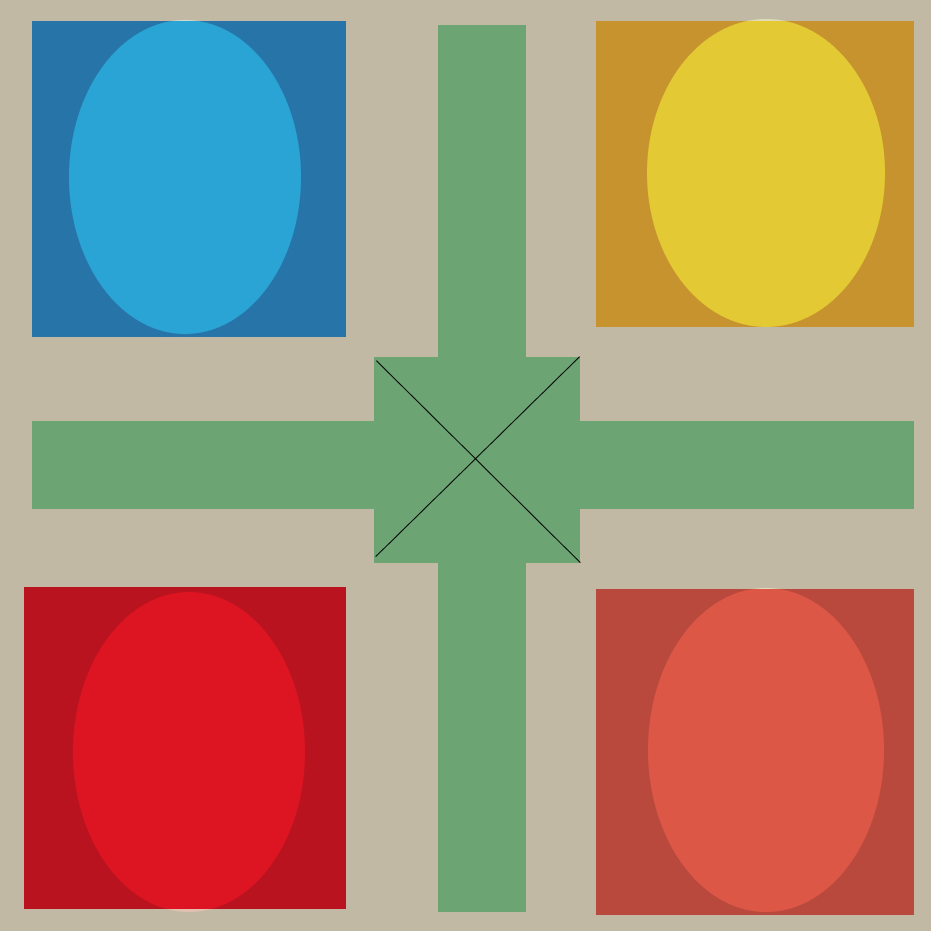
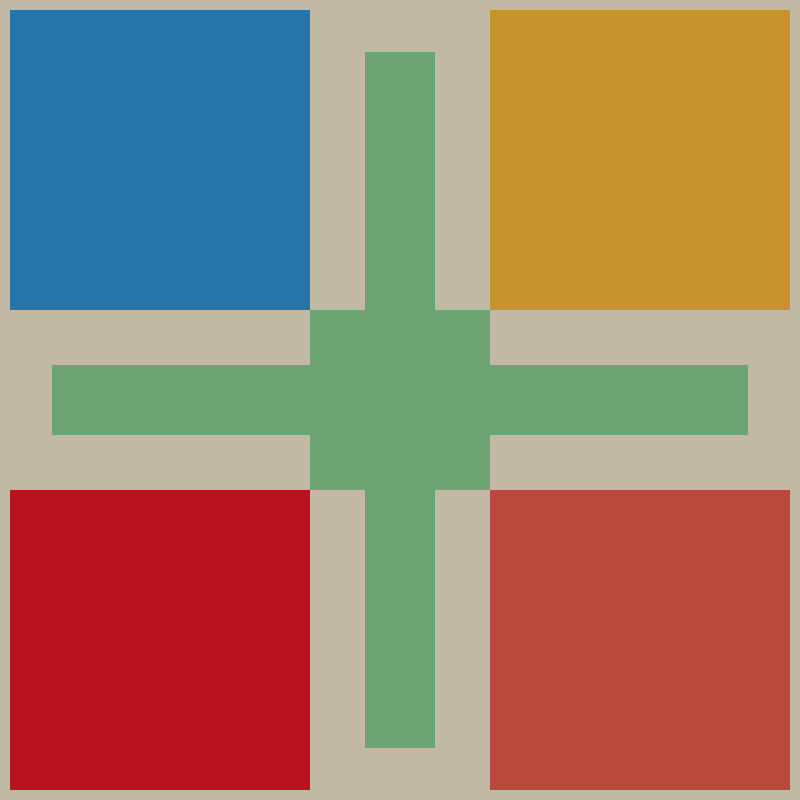
add divs and css grid

diff --git a/stylesheet.css b/stylesheet.css
@@ -4,15 +4,119 @@
 // gameboard with a track around the outside, four corner spaces and four home paths leading to a central end space. The most popular Parcheesi boards in America have 68 spaces around the edge of the board, 12 of which are darkened safe spaces. Each corner of the board contains one player's nest, or starting area. 
 //two dice in center of screen that changes based on the numbers rolled with each turn? turns the color of the player
 
-//TO MAKE GRID
-
 <style>
 
+#container {
+  display: grid;
+  grid-template-areas:
+    "bluenest bluenest bluesafety yellownest yellownest"
+    "redsafety redsafety home yellowsafety yellowsafety"
+    "rednest rednest peachsafety peachnest peachnest";
+  grid-template-columns: 1fr 1fr 1fr 1fr 1fr;
+  grid-template-rows: 1fr 1fr 1fr 1fr 1fr;
+  gap: 10px;
+}
+
+.bluenest {
+  display: grid;
+  grid-area: bluenest;
+  color: red;
+  height: 240px;
+  width: 240px;
+}
+
+.bluesafety {
+  display: grid;
+  grid-area: bluesafety;
+  color: green;
+  height: 240px;
+  width: 240px;
+
+}
+
+.yellownest {
+  display: grid;
+  grid-area: yellownest;
+  color: yellow;
+  height: 240px;
+  width: 240px;
+}
+
+.redsafety {
+  display: grid;
+  grid-area: bluenest;
+  color: red;
+  height: 240px;
+  width: 240px;
+}
+
+.home {
+  display: grid;
+  grid-area: bluesafety;
+  color: green;
+  height: 240px;
+  width: 240px;
+
+}
+
+.yellowsafety {
+  display: grid;
+  grid-area: yellownest;
+  color: yellow;
+  height: 240px;
+  width: 240px;
+}
+
+.rednest {
+  display: grid;
+  grid-area: bluenest;
+  color: red;
+  height: 240px;
+  width: 240px;
+}
+
+.peachsafety {
+  display: grid;
+  grid-area: bluesafety;
+  color: green;
+  height: 240px;
+  width: 240px;
+
+}
+
+.peachnest {
+  display: grid;
+  grid-area: yellownest;
+  color: yellow;
+  height: 240px;
+  width: 240px;
+}
+/* #board {
+  display: flex;
+  justify-items: center;
+  width: 95%;
+} */
+
+.heroimage {
+  display: flexbox;
+  background-image: url("images/board1.png");
+  background-color: #f1ede2; 
+  height: 1200px;
+  width: 1200px;
+  background-position: center;
+  background-repeat: no-repeat;
+  background-size: cover;
+}
+
+.item {
+  display: flex;
+  color: red;
+}
 
 
+body {
+  background-color: #f1ede2;
 
-
-
-
+}
 
 </style>

diff --git a/index.js b/index.js
@@ -1,21 +1,4 @@
-
-  const container = document.getElementById("container");
-  let rows 
-  let columns
-
-  function makeRows(rows, cols) {
-    container.style.setProperty('--grid-rows', rows);
-    container.style.setProperty('--grid-cols', cols);
-    for (c = 0; c < (rows * cols); c++) {
-      let cell = document.createElement("div");
-      cell.innerText = (c + 1);
-      container.appendChild(cell).className = "grid-item";
-    };
-  };
-  
-  makeRows(16, 16);
-  
-  // Opening line to tell player to roll dice and the  player with the lowest roll goes first.
+// Opening line to tell player to roll dice and the  player with the lowest roll goes first.
 // Dice start at 00
 // Let player pick color and computer takes other
 
@@ -31,7 +14,7 @@ const diceB = ["1", "2", "3", "4", "5", "6"]
 //   diceB = ["1", "2", "3", "4", "5", "6"]
 // ] 
 
-
+///
 function game(){ //LOGIC KEEP ALL PLAY INSIDE GAME FUNCTION WITH NESTED ARRAY / OBJECTS B/C BOTH NEED TO HAVE THE SAME REFERENCE TYPE AKA ROOT??
 
   function rollDie(){

diff --git a/project1.html b/project1.html
@@ -8,14 +8,27 @@
   <script src="index.js"></script>
   <link rel="stylesheet" href="stylesheet.css">
 </head>
-<body>
-  <svg src="images/board1.png"></svg>
 
+
+<body>\
+  <div>
+  <div class="heroimage">
+  <!-- <img src="images/board1.png" id="heroimage"></img> -->
   <div class="container">
-    <div class="item item-1"> </div>
-    <div class="item item-2"> </div>
-    <div class="item item-3"> </div>
+      <div class="bluenest">BLUE NEST 1</div>
+      <div class="bluenest">BLUE NEST 2</div>
+      <div class="bluesafety">BLUE SAFETY </div>
+      <div class="yellownest">YELLOW NEST </div>
+      <div class="yellownest">YELLOW NEST </div>
+      <div class="redsafety">RED SAFETY</div>
+      <div class="redsafety">RED SAFETY</div>
+      <div class="redsafety">RED SAFETY</div>
+      <div class="redsafety">RED SAFETY</div>
+      <div class="redsafety">RED SAFETY</div>
+      <div class="redsafety">RED SAFETY</div>
+  
   </div>
-
+</div>
+</div>
 </body>
 </html>
